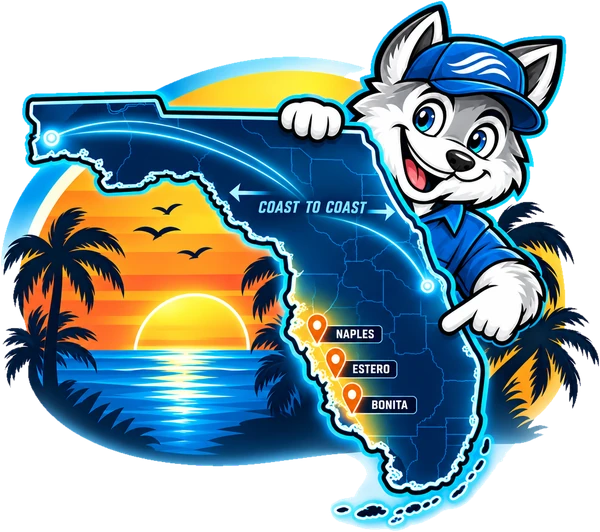
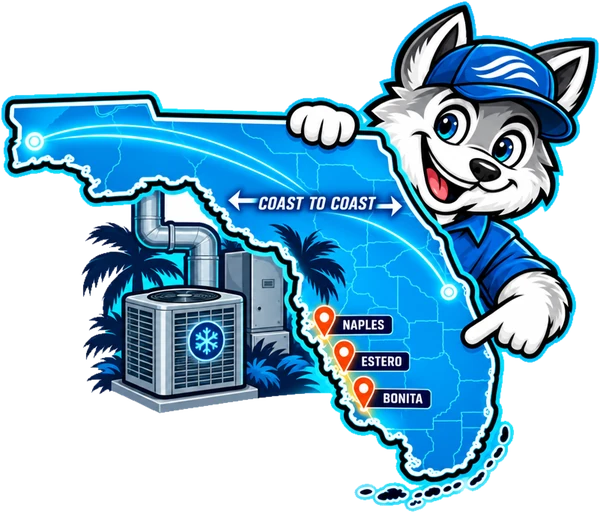
New hero artwork, and one flat cyan on "here"
- Swap in the new coast-to-coast graphic: Florida, the condenser and the three
  focus markets, with the mascot leaning over the panhandle. It is drawn in the
  brand's blues, so it sits complementary to the ember ground instead of
  competing with it, and the sunburst still reads behind it.
- Drop the white keyline on "here". It thickened the glyphs enough that the
  word looked set in a different, chunkier face than the rest of the site —
  which is what made the hero read as a different font from "HVAC for homes &
  businesses". Both are Archivo 900; cropped and scaled to a common height the
  letterforms are identical.
- "here" is now the flat electric cyan that carries "second opinions" on navy,
  so the two headlines read as one voice. A soft navy shadow does the
  separating that the keyline was doing.
- The full stop goes white — gold on ember read as a stray square once the
  word beside it turned cyan.

diff --git a/src/pages/home.tsx b/src/pages/home.tsx
@@ -106,10 +106,7 @@ function Hero() {
             <br />
             lives{" "}
             <span className="text-pop-blue">
-              here
-              {/* The stop inherits the keyline so it reads as part of the
-                  word rather than as a stray gold square beside it. */}
-              <span className="text-gold">.</span>
+              here<span className="text-white">.</span>
             </span>
           </h1>
 
@@ -199,9 +196,9 @@ function Hero() {
             src="/brand/hero-map-mascot.webp"
             srcSet="/brand/hero-map-mascot-sm.webp 600w, /brand/hero-map-mascot.webp 1200w"
             sizes="(min-width: 1024px) 560px, 92vw"
-            alt="Coast to Coast Air serves Southwest Florida, with focus markets in Naples, Estero and Bonita Springs"
+            alt="Coast to Coast Air covers Florida coast to coast from Fort Myers, with focus markets in Naples, Estero and Bonita Springs"
             width={1200}
-            height={1064}
+            height={1026}
             fetchPriority="high"
             className="mx-auto w-full max-w-lg drop-shadow-[0_28px_56px_rgb(150_50_0/0.45)]"
           />

diff --git a/src/index.css b/src/index.css
@@ -410,16 +410,13 @@
     background-clip: text;
     color: transparent;
   }
-  /* Key word on the orange ground. One flat, electric blue — a gradient
-     bottomed out dark and muddied the word against ember. Blue and orange sit
-     close in luminance, so legibility comes from a white keyline rather than
-     from contrast: it is the same construction as the logo art, where every
-     blue shape is cut out with a white outline. */
+  /* Key word on the orange ground. The same electric cyan that carries
+     "second opinions" on navy, so both headlines read as one voice — flat,
+     with a soft shadow doing the separating. A keyline made the word look
+     like a different, chunkier typeface than the rest of the site. */
   .text-pop-blue {
-    color: #1f7bff;
-    -webkit-text-stroke: 0.055em #fff;
-    paint-order: stroke fill;
-    text-shadow: 0 10px 26px rgb(6 24 64 / 0.3);
+    color: #2bd9ff;
+    text-shadow: 0 5px 22px rgb(6 24 64 / 0.4);
   }
 
   .text-ember {
